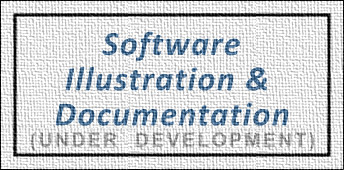
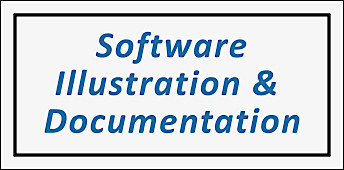
[under] construction zone setup

diff --git a/index.html b/index.html
@@ -6,7 +6,7 @@ header-img: "img/banners/home.png"
 <div>
   <img alt="me" src="img/homepage_subdivisions/portrait.jpg">
   <p></p>
-  <a href="/"> <!-- this will eventually link to "documentation" -->
+  <a href="/slowspeeds" target="_blank"> <!-- this will eventually link to "documentation" -->
     <img alt="me" src="img/homepage_subdivisions/sofdoc.jpg">
   </a>
   <br>
